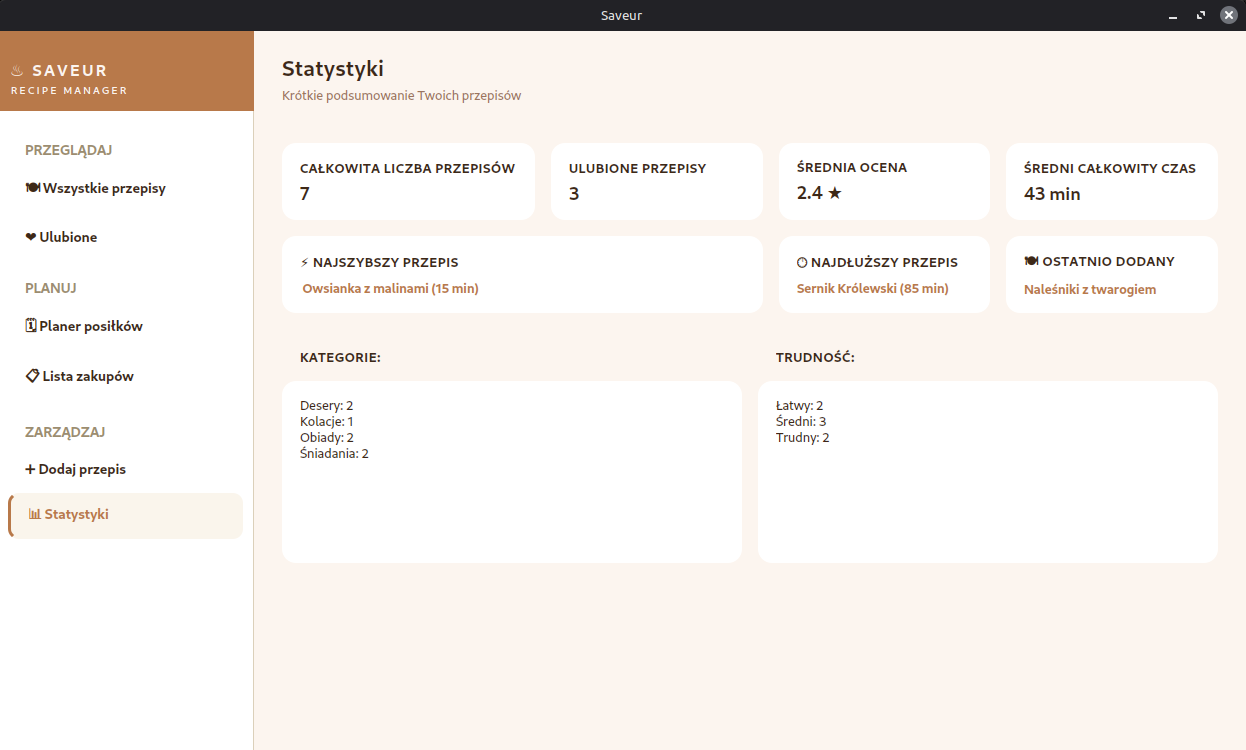
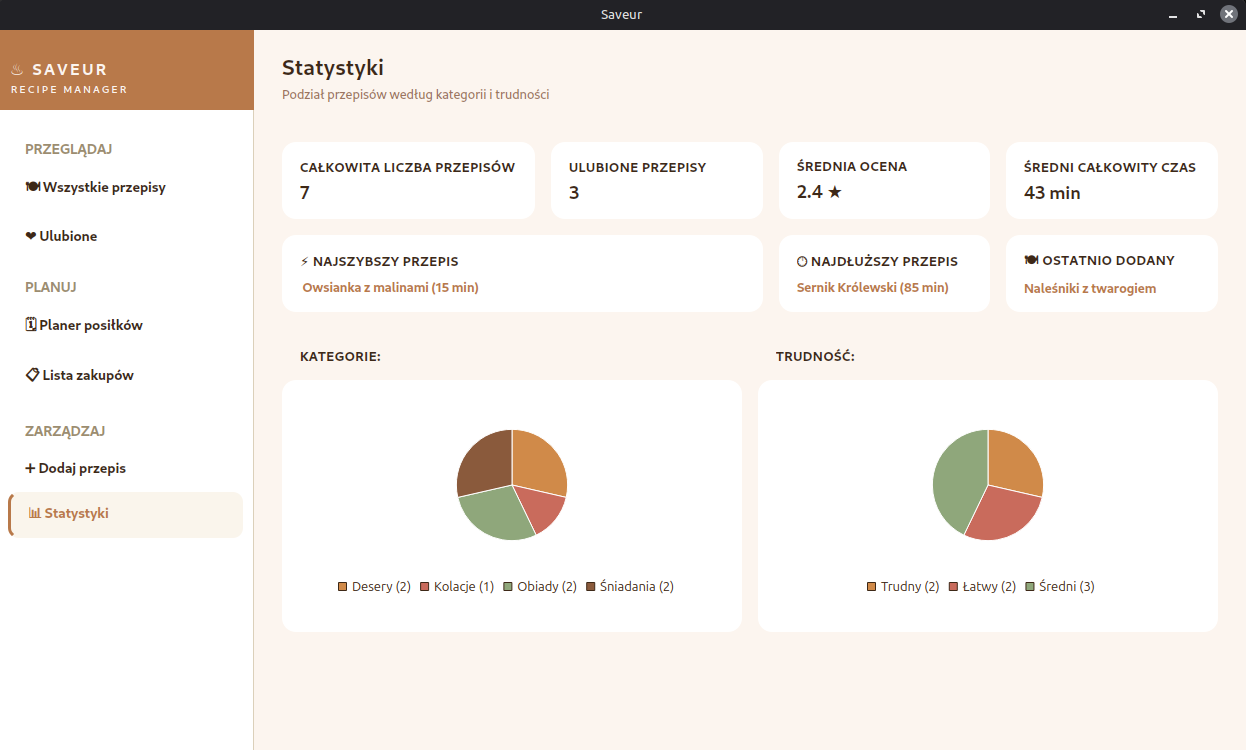
-

diff --git a/RecipeManager/pages/StatisticsPage.cpp b/RecipeManager/pages/StatisticsPage.cpp
@@ -2,11 +2,14 @@
 #include "ui_StatisticsPage.h"
 #include "database/DatabaseManager.h"
 
+#include <QBrush>
+#include <QColor>
 #include <QLayout>
 #include <QLayoutItem>
 #include <QList>
 #include <QMap>
 #include <QPainter>
+#include <QPen>
 #include <QtMath>
 #include <QtCharts/QChart>
 #include <QtCharts/QChartView>
@@ -50,16 +53,32 @@ QtCharts::QChartView *StatisticsPage::createPieChart(const QMap<QString, int> &d
         }
     }
 
+    const QList<QColor> colors = {
+        QColor(QStringLiteral("#d08a49")),
+        QColor(QStringLiteral("#c96b5c")),
+        QColor(QStringLiteral("#8fa77b")),
+        QColor(QStringLiteral("#8a5a3c")),
+        QColor(QStringLiteral("#d7c3a7"))
+    };
+
+    int colorIndex = 0;
     for (QtCharts::QPieSlice *slice : series->slices()) {
+        const QColor color = colors.at(colorIndex % colors.size());
+        slice->setBrush(color);
+        slice->setPen(QPen(QColor(QStringLiteral("#ffffff")), 1));
         slice->setLabelVisible(false);
+        colorIndex++;
     }
 
     auto *chart = new QtCharts::QChart();
     chart->addSeries(series);
     chart->legend()->setVisible(true);
     chart->legend()->setAlignment(Qt::AlignBottom);
+    chart->legend()->setLabelColor(QColor(QStringLiteral("#3d2817")));
     chart->setBackgroundVisible(false);
+    chart->setPlotAreaBackgroundVisible(false);
     chart->setMargins(QMargins(0, 0, 0, 0));
+    chart->setTitleBrush(QBrush(QColor(QStringLiteral("#3d2817"))));
 
     auto *chartView = new QtCharts::QChartView(chart);
     chartView->setRenderHint(QPainter::Antialiasing);
